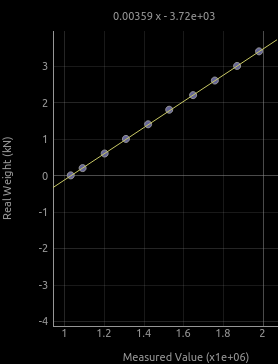
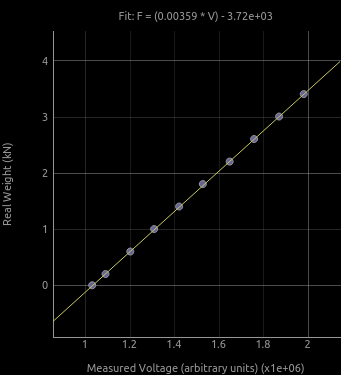
Fixed fonts, labels on things, made it prettier

diff --git a/gui.py b/gui.py
@@ -136,7 +136,7 @@ class GUI(basicgui.Ui_GUI, QtCore.QObject):
             if self.calibration.hasFit():
                 self.currentReadingLabel.setText('Current reading ({})'.format(self.units))
             else:
-                self.currentReadingLabel.setText('Current reading (raw)')
+                self.currentReadingLabel.setText('Current reading (Raw Voltage)')
 
     @QtCore.pyqtSlot()
     def clear(self):
@@ -171,7 +171,7 @@ class GUI(basicgui.Ui_GUI, QtCore.QObject):
             if self.calibration.hasFit():
                 self.currentReadingLabel.setText('Current reading ({})'.format(self.units))
             else:
-                self.currentReadingLabel.setText('Current reading (raw)')
+                self.currentReadingLabel.setText('Current reading (Raw Voltage)')
 
     @QtCore.pyqtSlot()
     def _addSample(self):
@@ -335,6 +335,12 @@ class Plot(Wrapper, QtCore.QObject):
     chunkSize = 100
     maxChunks = 500
 
+    # create the fontstyle (CSS styling) used for the axes labels
+    # and the QFont used for the tick labels for the axes (WTF why different pyqtgraph?)
+    fontStyle = {'color': '#888', 'font-size': '16pt'}
+    font=QtGui.QFont()
+    font.setPixelSize(16)
+
     # The draggable horizontal line (used for calibration and measurement) is moved
     sigLineChanged = QtCore.pyqtSignal(float)
 
@@ -343,7 +349,8 @@ class Plot(Wrapper, QtCore.QObject):
 
         def __init__(self):
             pg.AxisItem.__init__(self, orientation='bottom')
-            self.setLabel(text='Time', units='')
+            style = {'color': '#FFF', 'font-size': '24pt'}
+            self.setLabel(text='Time', units='', **style)
             self.enableAutoSIPrefix(False)
 
         @classmethod
@@ -377,18 +384,14 @@ class Plot(Wrapper, QtCore.QObject):
         self.fit = None
         self.doAutoscroll = doAutoscroll
 
-        self.disableAutoRange()
-        self.hideButtons()
-        self.setLabel('left', 'raw')
-        self.setLabel('right', units=units)
-        self.hideAxis('right')
-
         self.setDownsampling(mode='peak')
         self.rightAxisViewBox = pg.ViewBox()
         self.plotItem.scene().addItem(self.rightAxisViewBox)
         self.getAxis('right').linkToView(self.rightAxisViewBox)
-        self.rightAxisViewBox.sigYRangeChanged.connect(self._rightAxisChanged)
+        # self.rightAxisViewBox.setStyle()
+        # self.rightAxisViewBox.sigYRangeChanged.connect(self._rightAxisChanged)
         self.sigYRangeChanged.connect(self._leftAxisChanged)
+        self.sigXRangeChanged.connect(self._xChanged)
 
         self.line = pg.InfiniteLine(angle=0, movable=True)
         self.addItem(self.line, ignoreBounds=True)
@@ -398,6 +401,19 @@ class Plot(Wrapper, QtCore.QObject):
         self.addTimeAxis(self.timeAxis)
         self.showGrid(y=True, x=True)
 
+        # set the font of the axes
+        plot.getAxis("left").tickFont = self.font
+        plot.getAxis("bottom").tickFont = self.font
+        plot.getAxis("right").tickFont = self.font
+        # set the font of the axes labels
+        self.setLabel('left', 'Measured Voltage (arbitrary units)', **self.fontStyle)
+        self.setLabel('bottom', **self.fontStyle)
+        self.setLabel('right', units=units, **self.fontStyle)
+
+        self.disableAutoRange()
+        self.hideButtons()
+        self.hideAxis('right')
+
     def addTimeAxis(self, axis):
         pi = self.getPlotItem()
         old = self.getAxis('bottom')
@@ -405,7 +421,6 @@ class Plot(Wrapper, QtCore.QObject):
 
         pos = (3, 1)
         axis.linkToView(self.getViewBox())
-
         pi.axes['bottom'] = {'item': axis, 'pos': pos}
         pi.layout.addItem(axis, *pos)
 
@@ -476,19 +491,19 @@ class Plot(Wrapper, QtCore.QObject):
     def setAutoscroll(self, val):
         self.doAutoscroll = val
 
-    def _rightAxisChanged(self):
-        # if self.fit is not None:
-        #     lo, hi = self.rightAxisViewBox.viewRange()[1]
-        #     lo = self.fit.real2measured(lo, fromUnits=self.units)
-        #     hi = self.fit.real2measured(hi, fromUnits=self.units)
-        #     self._wrapped.blockSignals(True)
-        #     if self.fit.m < 0:
-        #         self.rightAxisViewBox.invertY(True)
-        #     else:
-        #         self.rightAxisViewBox.invertY(False)
-        #     self.setYRange(lo, hi, padding=0)
-        #     self._wrapped.blockSignals(False)
-        pass
+    # def _rightAxisChanged(self):
+    #     # if self.fit is not None:
+    #     #     lo, hi = self.rightAxisViewBox.viewRange()[1]
+    #     #     lo = self.fit.real2measured(lo, fromUnits=self.units)
+    #     #     hi = self.fit.real2measured(hi, fromUnits=self.units)
+    #     #     self._wrapped.blockSignals(True)
+    #     #     if self.fit.m < 0:
+    #     #         self.rightAxisViewBox.invertY(True)
+    #     #     else:
+    #     #         self.rightAxisViewBox.invertY(False)
+    #     #     self.setYRange(lo, hi, padding=0)
+    #     #     self._wrapped.blockSignals(False)
+    #     pass
 
     def _leftAxisChanged(self):
         if self.fit is not None:
@@ -500,6 +515,13 @@ class Plot(Wrapper, QtCore.QObject):
             else:
                 self.rightAxisViewBox.invertY(False)
             self.rightAxisViewBox.setYRange(lo, hi, padding=0)
+
+    def _xChanged(self):
+        lo, hi = self.getRange()
+        print(lo, hi)
+        # self.getAxis('right').setStyle(stopAxisAtTick=(True, True))
+        self.rightAxisViewBox.setXRange(lo, hi, padding=0, update=False)
+        # print(self.rightAxisViewBox.viewRange())
 
     def getRange(self):
         return self.viewRange()[0]
@@ -606,7 +628,7 @@ class CalibrationPlot(Wrapper, QtCore.QObject):
         self.showAxis('left')
         self.sigYRangeChanged.connect(self._viewBoxChanged)
         self.leftAxisViewBox.sigYRangeChanged.connect(self._leftAxisChanged)
-        self.setLabel('bottom', 'Measured Value')
+        self.setLabel('bottom', 'Measured Voltage (arbitrary units)')
         self.enableAutoRange()
         self.addItem(self.scatter)
         self.addItem(self.line)
@@ -632,7 +654,7 @@ class CalibrationPlot(Wrapper, QtCore.QObject):
         self.setLabel('left', 'Real Weight', units=self.units)
         self._viewBoxChanged()
         if self.fit:
-            self.setTitle(self.fit.inUnits(self.units))
+            self.setTitle("Fit: " + str(fit.inUnits(self.units)))
 
     def setFit(self, fit):
         self.fit = fit
@@ -640,7 +662,7 @@ class CalibrationPlot(Wrapper, QtCore.QObject):
             self.setTitle('No Fit')
             self.line.setVisible(False)
         else:
-            self.setTitle(fit.inUnits(self.units))
+            self.setTitle("Fit: " + str(fit.inUnits(self.units)))
             degrees = np.arctan(fit.m) * 180 / np.pi
             onepoint = (0, fit.b)
             self.line.setAngle(degrees)

diff --git a/basicgui.py b/basicgui.py
@@ -42,7 +42,7 @@ class Ui_GUI(object):
         self.horizontalLayout = QtGui.QHBoxLayout(self.centralwidget)
         self.horizontalLayout.setObjectName(_fromUtf8("horizontalLayout"))
         self.tabs = QtGui.QTabWidget(self.centralwidget)
-        self.tabs.setMaximumSize(QtCore.QSize(300, 16777215))
+        self.tabs.setMaximumSize(QtCore.QSize(400, 16777215))
         self.tabs.setTabPosition(QtGui.QTabWidget.North)
         self.tabs.setMovable(False)
         self.tabs.setObjectName(_fromUtf8("tabs"))
@@ -88,7 +88,7 @@ class Ui_GUI(object):
         self.removeSampleButton.setObjectName(_fromUtf8("removeSampleButton"))
         self.verticalLayout_2.addWidget(self.splitter)
         self.sampleTable = QtGui.QTableWidget(self.calibrationTab)
-        self.sampleTable.setMaximumSize(QtCore.QSize(16777215, 175))
+        self.sampleTable.setMaximumSize(QtCore.QSize(16777215, 150))
         self.sampleTable.setMidLineWidth(0)
         self.sampleTable.setEditTriggers(QtGui.QAbstractItemView.NoEditTriggers)
         self.sampleTable.setAlternatingRowColors(False)
@@ -216,7 +216,7 @@ class Ui_GUI(object):
         self.horizontalLayout.addWidget(self.plotFrame)
         GUI.setCentralWidget(self.centralwidget)
         self.menuBar = QtGui.QMenuBar(GUI)
-        self.menuBar.setGeometry(QtCore.QRect(0, 0, 703, 22))
+        self.menuBar.setGeometry(QtCore.QRect(0, 0, 703, 20))
         self.menuBar.setObjectName(_fromUtf8("menuBar"))
         self.menuUnits = QtGui.QMenu(self.menuBar)
         self.menuUnits.setObjectName(_fromUtf8("menuUnits"))
@@ -272,7 +272,7 @@ class Ui_GUI(object):
 
     def retranslateUi(self, GUI):
         GUI.setWindowTitle(_translate("GUI", "Load Cell Controller", None))
-        self.measuredValueLabel.setText(_translate("GUI", "Measured Value:", None))
+        self.measuredValueLabel.setText(_translate("GUI", "Measured Voltage:", None))
         self.realValueLabel.setText(_translate("GUI", "Real Weight (N):", None))
         self.addSampleButton.setText(_translate("GUI", "Add Sample", None))
         self.removeSampleButton.setText(_translate("GUI", "Remove Sample", None))
@@ -292,7 +292,7 @@ class Ui_GUI(object):
         self.SampleRate.setText(_translate("GUI", "Sample Rate", None))
         self.sampleRateSpinBox.setSuffix(_translate("GUI", " Hz", None))
         self.tabs.setTabText(self.tabs.indexOf(self.settingsTab), _translate("GUI", "Settings", None))
-        self.currentReadingLabel.setText(_translate("GUI", "Current Reading (raw):", None))
+        self.currentReadingLabel.setText(_translate("GUI", "Current Reading (Raw Voltage):", None))
         self.autoRangeButton.setText(_translate("GUI", "AutoRange", None))
         self.clearPlotsButton.setText(_translate("GUI", "Clear", None))
         self.autoscrollCheckBox.setText(_translate("GUI", "Autoscroll", None))

diff --git a/loadcellcontrol.py b/loadcellcontrol.py
@@ -274,6 +274,7 @@ class Calibration(object):
     CONVERSIONS = {'N': 1.0, 'kg':0.101971621298, 'lbs':0.2248089431}
 
     class Fit(object):
+        '''Used to convert from a measured voltage to applied force, and vice-versa.'''
 
         def __init__(self, m=1, b=0):
             self.m = m
@@ -283,7 +284,7 @@ class Calibration(object):
 
         def __str__(self):
             sign = '+' if self.b >= 0 else '-'
-            return '{:.3} x {} {:.3}'.format(self.m, sign, abs(self.b))
+            return 'F = ({:.3} * V) {} {:.3}'.format(self.m, sign, abs(self.b))
 
         def measured2real(self, inp, toUnits='N'):
             return Calibration.convertBetween(self._f(inp), 'N', toUnits)
@@ -368,6 +369,3 @@ class Calibration(object):
 
 if __name__ == "__main__":
     lcc = LoadCellControl()
-
-
-
